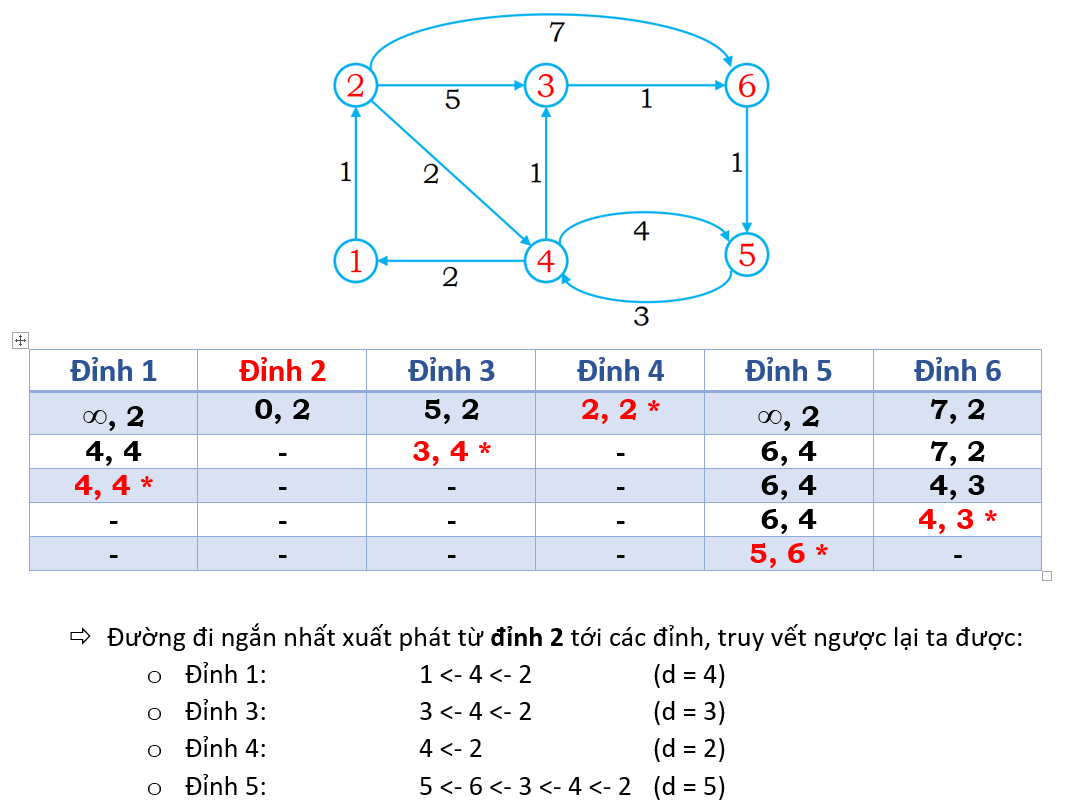
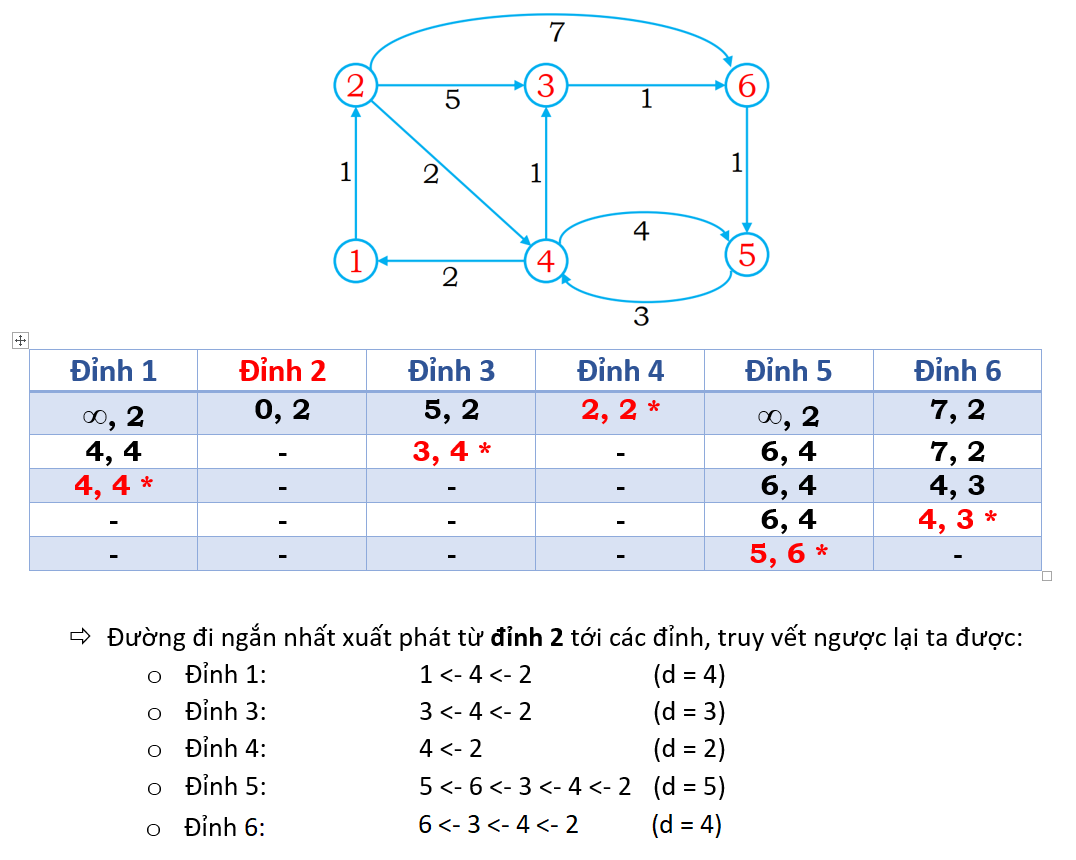
C++

diff --git a/Graph/Gra4.6 - [Dijkstra] Tìm đường đi ngắn nhất/Gra4.6.cpp b/Graph/Gra4.6 - [Dijkstra] Tìm đường đi ngắn nhất/Gra4.6.cpp
@@ -47,7 +47,7 @@ int minDist() {
 	int min = INT_MAX; // độ dài đường đi nhỏ nhất từ đỉnh đang xét tới đỉnh cố định (ban đầu tạm cho bằng số lớn nhất có thể, tương đương với ∞)
 	int index; // lưu đỉnh cần tìm
 
-	for ( int i = 1; i <= ver - 1; i++ ) // Quét qua 1 loạt các đỉnh trong đồ thị để tìm đỉnh tiếp theo có đường đi ngắn nhất tới Đỉnh cố định
+	for ( int i = 1; i <= ver; i++ ) // Quét qua 1 loạt các đỉnh trong đồ thị để tìm đỉnh tiếp theo có đường đi ngắn nhất tới Đỉnh cố định
 		if ( included[i] == false && d[i] < min ) { // Nếu đỉnh đó chưa có trong cây khung (included[i] == false), và đỉnh đó tồn tại đường đi tới đỉnh cố định (d[i] < min - tức là d[i] khác ∞)... 
 			min = d[i]; //... thì lưu giá trị đó tạm thời là độ dài đường đi nhỏ nhất...
 			index = i; //... và lưu đỉnh đó tạm thời là đỉnh có đường đi ngắn nhất tới Đỉnh cố định
@@ -110,19 +110,19 @@ The Starting Point: 2
 + Vertex 4 : (4:4)(0:0)(3:4)(2:0)(6:4)(7:0)
 + Vertex 3 : (4:4)(0:0)(3:4)(2:0)(6:4)(4:3)
 + Vertex 1 : (4:4)(0:0)(3:4)(2:0)(6:4)(4:3)
-+ Vertex 5 : (4:4)(0:0)(3:4)(2:0)(6:4)(4:3)
++ Vertex 6 : (4:4)(0:0)(3:4)(2:0)(5:6)(4:3)
 
 - pre[1]: 4
 - pre[2]: 0
 - pre[3]: 4
 - pre[4]: 2
-- pre[5]: 4
+- pre[5]: 6
 - pre[6]: 3
 
 The distance from 2 to 1 is     : 4
 The distance from 2 to 2 is     : 0
 The distance from 2 to 3 is     : 3
 The distance from 2 to 4 is     : 2
-The distance from 2 to 5 is     : 6
+The distance from 2 to 5 is     : 5
 The distance from 2 to 6 is     : 4
 */
